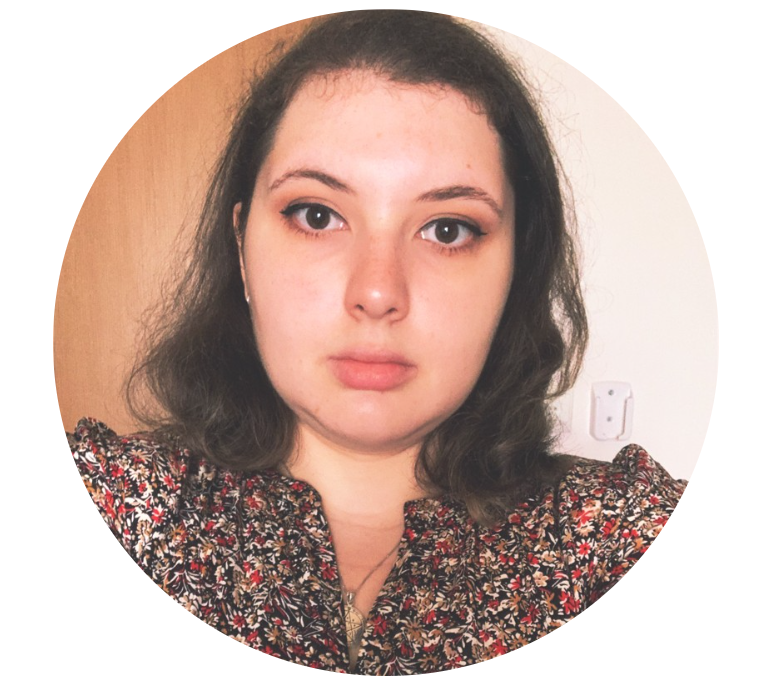
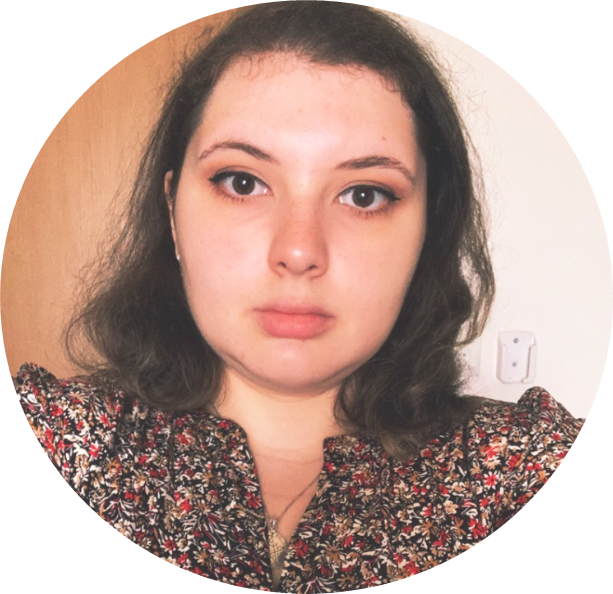
Add files via upload

diff --git a/index.html b/index.html
@@ -4,14 +4,15 @@
 <head>
     <meta charset="uft-8">
     <title>Yael's Personal Site</title>
+    <link rel="stylesheet" href="css\styles.css">
 </head>
 
 <body>
     <table cellspacing="10">
         <tr>
             <td>
-                <img src="Yaelprof.PNG"
-                    alt="Yael profile pocture" style="width:330px;height:300px;">
+                <img src="C:\Users\yoavm\OneDrive\שולחן העבודה\full stack\Web Development\HTML - Personal Site\Yaelprof.PNG"
+                    alt="Yael profile pocture" style="width:300px;height:300px;">
             </td>
             <td>
                 <h1>Yael Genkin</h1>
@@ -50,7 +51,7 @@
             </tr>
 
         </tbody>
-    </table >
+    </table>
     <hr size="3" noshade>
     <h3>Skills</h3>
     <table cellspacing="10">

diff --git a/styles.css b/styles.css
@@ -1,0 +1,18 @@
+body {
+    background-color: rgb(205, 236, 255);
+}
+
+hr {
+    background-color:rgb(205, 236, 255);
+    border-style: dotted none none none;
+    border-width: thick;
+    border-color: rgb(206, 206, 206) ;
+    border-width: 5px;
+    width: 5%;
+}
+h1{
+    color: #228888
+}
+h3{
+    color: #228888
+}

diff --git a/contactinfo.html b/contactinfo.html
@@ -3,6 +3,7 @@
 <head>
     <meta charset="UTF-8">
     <title>Contact information</title>
+    <link rel="stylesheet" href="css\styles.css">
 </head>
 <body>
     <h1>Contact information</h1>

diff --git a/socialnetwork.html b/socialnetwork.html
@@ -3,6 +3,7 @@
 <head>
     <meta charset="UTF-8">
     <title>Social network</title>
+    <link rel="stylesheet" href="css\styles.css">
 </head>
 <body>
     <h3>social network</h3>

diff --git a/hobbies.HTmL b/hobbies.HTmL
@@ -3,6 +3,7 @@
 <head>
     <meta charset="UTF-8">
     <title>Hobbies</title>
+    <link rel="stylesheet" href="css\styles.css">
 </head>
 <body>
     <h3>My Hobbies</h3>
